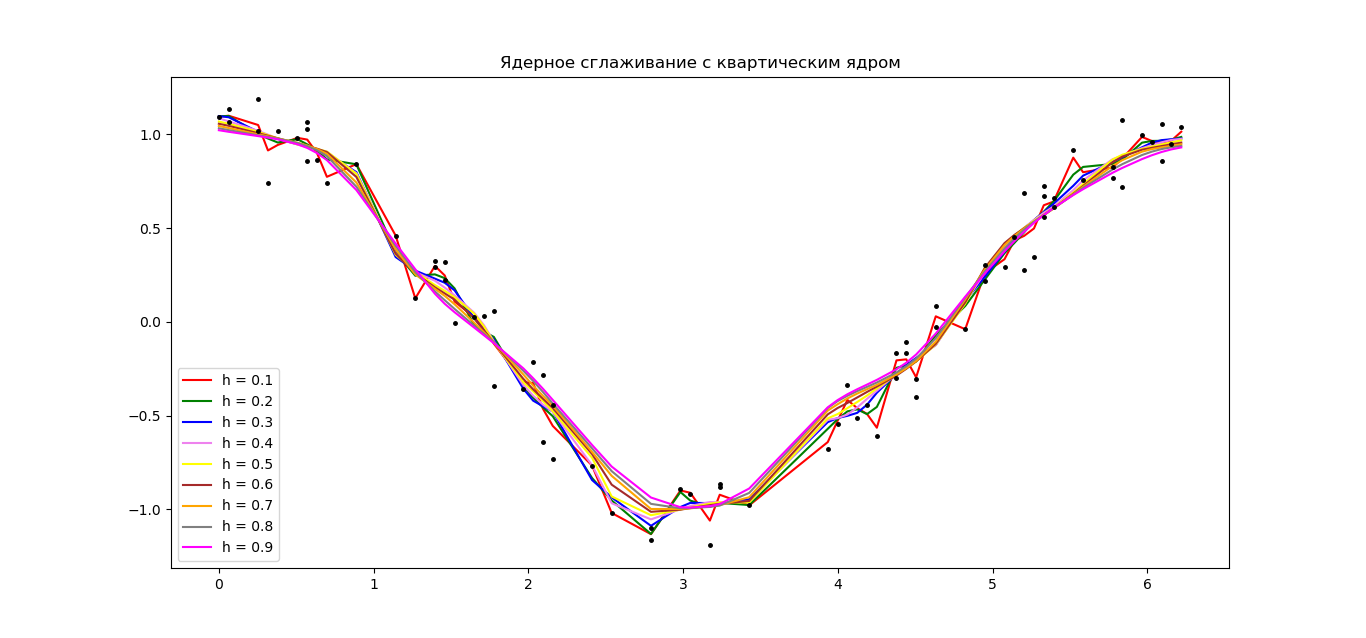
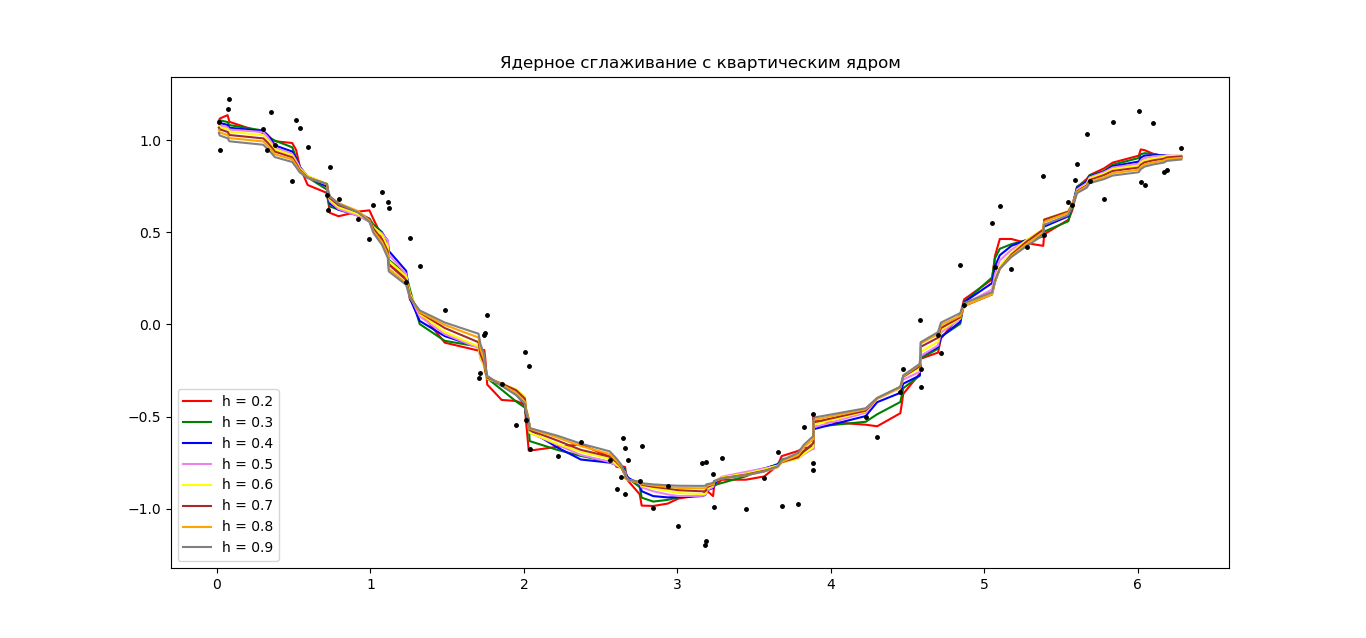
adding new nw

diff --git a/nw.py b/nw.py
@@ -4,7 +4,7 @@ from math import exp, sqrt
 import pandas as pd
 from sklearn import datasets
 
-H = np.arange(0.1, 1.0, 0.1)
+H = np.arange(0.2, 1.0, 0.1)
 colors = ['red', 'green', 'blue', 'violet', 'yellow', 'brown', 'orange', 'gray', 'magenta']
 kernels = ['гауссовское', 'квартическое']
 
@@ -38,21 +38,25 @@ def SSE(y, Y):
     return ((Y - y) ** 2).sum()
 
 
-def generate_wave_set(n_support=1000, n_train=250):
-    data = {}
-    data['support'] = np.linspace(0, 2 * np.pi, num=n_support)
-    data['x_train'] = np.sort(np.random.choice(data['support'], size=n_train, replace=True))
-    data['y_train'] = np.cos(data['x_train']).ravel()
-    data['y_train'] += 0.5 * (0.55 - np.random.rand(data['y_train'].size))
-    return data
+# def generate_wave_set(n_support=1000, n_train=250):
+    # data = {}
+    # data['support'] = np.linspace(0, 2 * np.pi, num=n_support)
+    # data['x_train'] = np.sort(np.random.choice(data['support'], size=n_train, replace=True))
+    # data['y_train'] = np.cos(data['x_train']).ravel()
+    # data['y_train'] += 0.5 * (0.55 - np.random.rand(data['y_train'].size))
+    # return data
 
-data = generate_wave_set(n_train=120)
-_X = data['x_train']
-_y = data['y_train']
+# data = generate_wave_set(n_train=100)
+_y = np.array([1.0978990541217315, 0.9490019698082963, 1.17292040037628, 1.2252109253937036, 1.0630899770203712, 0.9501253315498, 1.1554100141185313, 0.9750630804175908, 0.7767886197654582, 1.1083496989065207, 1.0691171534514428, 0.9622501695901673, 0.7039106057429881, 0.6239926555933131, 0.8529703067335617, 0.6814550219571317, 0.5712791118671223, 0.46663888670594544, 0.6490877455182594, 0.7192663701253499, 0.6655914449281104, 0.633513298216501, 0.23026746213937938, 0.4673359823998118, 0.3171528926458266, 0.07602807519644704, -0.2895321690789674, -0.26172970671358464, -0.05541951087048677, -0.04778387635966519, 0.05006337504508401, -0.3216797321867066, -0.5438686551299857, -0.15129321947589613, -0.5214453021514027, -0.227617792787213, -0.6742861553901391, -0.7147932860306822, -0.6388021735427036, -0.737069108083392, -0.8953480441571561, -0.8281660062636531, -0.6187293534716888, -0.9202335427399727, -0.6689090210827429, -0.7369501771023839, -0.8498373307273217, -0.6596774944881499, -0.99558975327244, -0.8793311259301868, -1.0943017449764623, -0.7512076791859212, -1.2006456235546248, -0.7484507254944082, -1.1761862015148608, -0.8121040359199118, -0.9932896894666424, -0.7267387336447415, -0.9997308651915706, -0.8342438296504306, -0.6908580315667887, -0.9872291525740696, -0.973051359294391, -0.5590551565798437, -0.7881391495995126, -0.7505180458442076, -0.4857040307367707, -0.5020426353858756, -0.6095979954656183, -0.36585876894134606, -0.2435713430593005, 0.022303268960226635, -0.3400198835365982, -0.2403210503853498, -0.05738485539686227, -0.15642787966374, 0.32180416131827266, 0.10688506496952496, 0.5515594728969968, 0.31247052400517855, 0.6427277079323361, 0.30240261025335086, 0.41824323587122775, 0.8060502420372119, 0.48612655515904885, 0.6669045000376095, 0.6494130722026361, 0.7863197134914363, 0.8690084761263894, 1.0344467195871003, 0.777171330766872, 0.6840503341018966, 1.0979494154841292, 1.160759465158367, 0.7721295288560982, 0.7595111740229177, 1.0966577209105268, 0.8288323270982327, 0.8415810065624862, 0.9587295113490557])
+_X = np.array([0.012578949563923095, 0.018868424345884642, 0.06918422260157703, 0.08176317216550011, 0.3018947895341543, 0.32705268866200043, 0.35221058778984665, 0.37736848691769287, 0.4905790329930007, 0.5157369321208469, 0.5408948312486931, 0.5912106295043854, 0.7170001251436164, 0.723289599925578, 0.7358685494895011, 0.7924738225271549, 0.918263318166386, 0.9937370155499244, 1.0188949146777706, 1.0755001877154247, 1.113237036407194, 1.1195265111891555, 1.2327370572644634, 1.2578949563923094, 1.320789704211925, 1.4843160485429252, 1.7044476659115793, 1.7170266154755025, 1.7421845146033486, 1.74847398938531, 1.7610529389492333, 1.8553950606786564, 1.9497371824080796, 2.0063424554457336, 2.012631930227695, 2.0315003545735797, 2.037789829355541, 2.2201845980324264, 2.371131992799503, 2.55981623625835, 2.6038425597320805, 2.6352899336418885, 2.6478688832058115, 2.6604478327697345, 2.6604478327697345, 2.679316257115619, 2.7547899544991576, 2.7673689040630807, 2.8428426014466193, 2.9371847231760424, 3.0063689457776195, 3.163605815326658, 3.182474239672543, 3.1887637144545047, 3.1887637144545047, 3.2327900379282353, 3.239079512710197, 3.2893953109658893, 3.446632180514928, 3.566132201372197, 3.654184848319659, 3.6793427474475053, 3.7862638187408515, 3.824000667432621, 3.886895415252236, 3.886895415252236, 3.886895415252236, 4.22652705347816, 4.302000750861699, 4.452948145628776, 4.47181656997466, 4.578737641268006, 4.585027116049968, 4.585027116049968, 4.698237662125276, 4.71710608647116, 4.842895582110391, 4.8680534812382374, 5.050448249915123, 5.069316674261007, 5.100764048170815, 5.176237745554354, 5.276869342065738, 5.383790413359084, 5.390079888141046, 5.547316757690084, 5.572474656817931, 5.591343081163815, 5.603922030727738, 5.666816778547354, 5.6856852028932385, 5.780027324622662, 5.836632597660316, 6.006448416773278, 6.019027366337201, 6.044185265465047, 6.100790538502701, 6.169974761104278, 6.188843185450162, 6.283185307179586])
 
-_X[60] = 3
-_y[60] = -0.3
+# print(_X.tolist())
+# f = open("dataset.txt", "w")
+# f.write(', '.join(str(e) for e in _X.tolist()))
+# f.write("\n ----")
+# f.write(', '.join(str(e) for e in _y.tolist()))
 
+_y[50] = 3.0
 
 SSEsG = np.empty(0)
 SSEsQ = np.empty(0)
